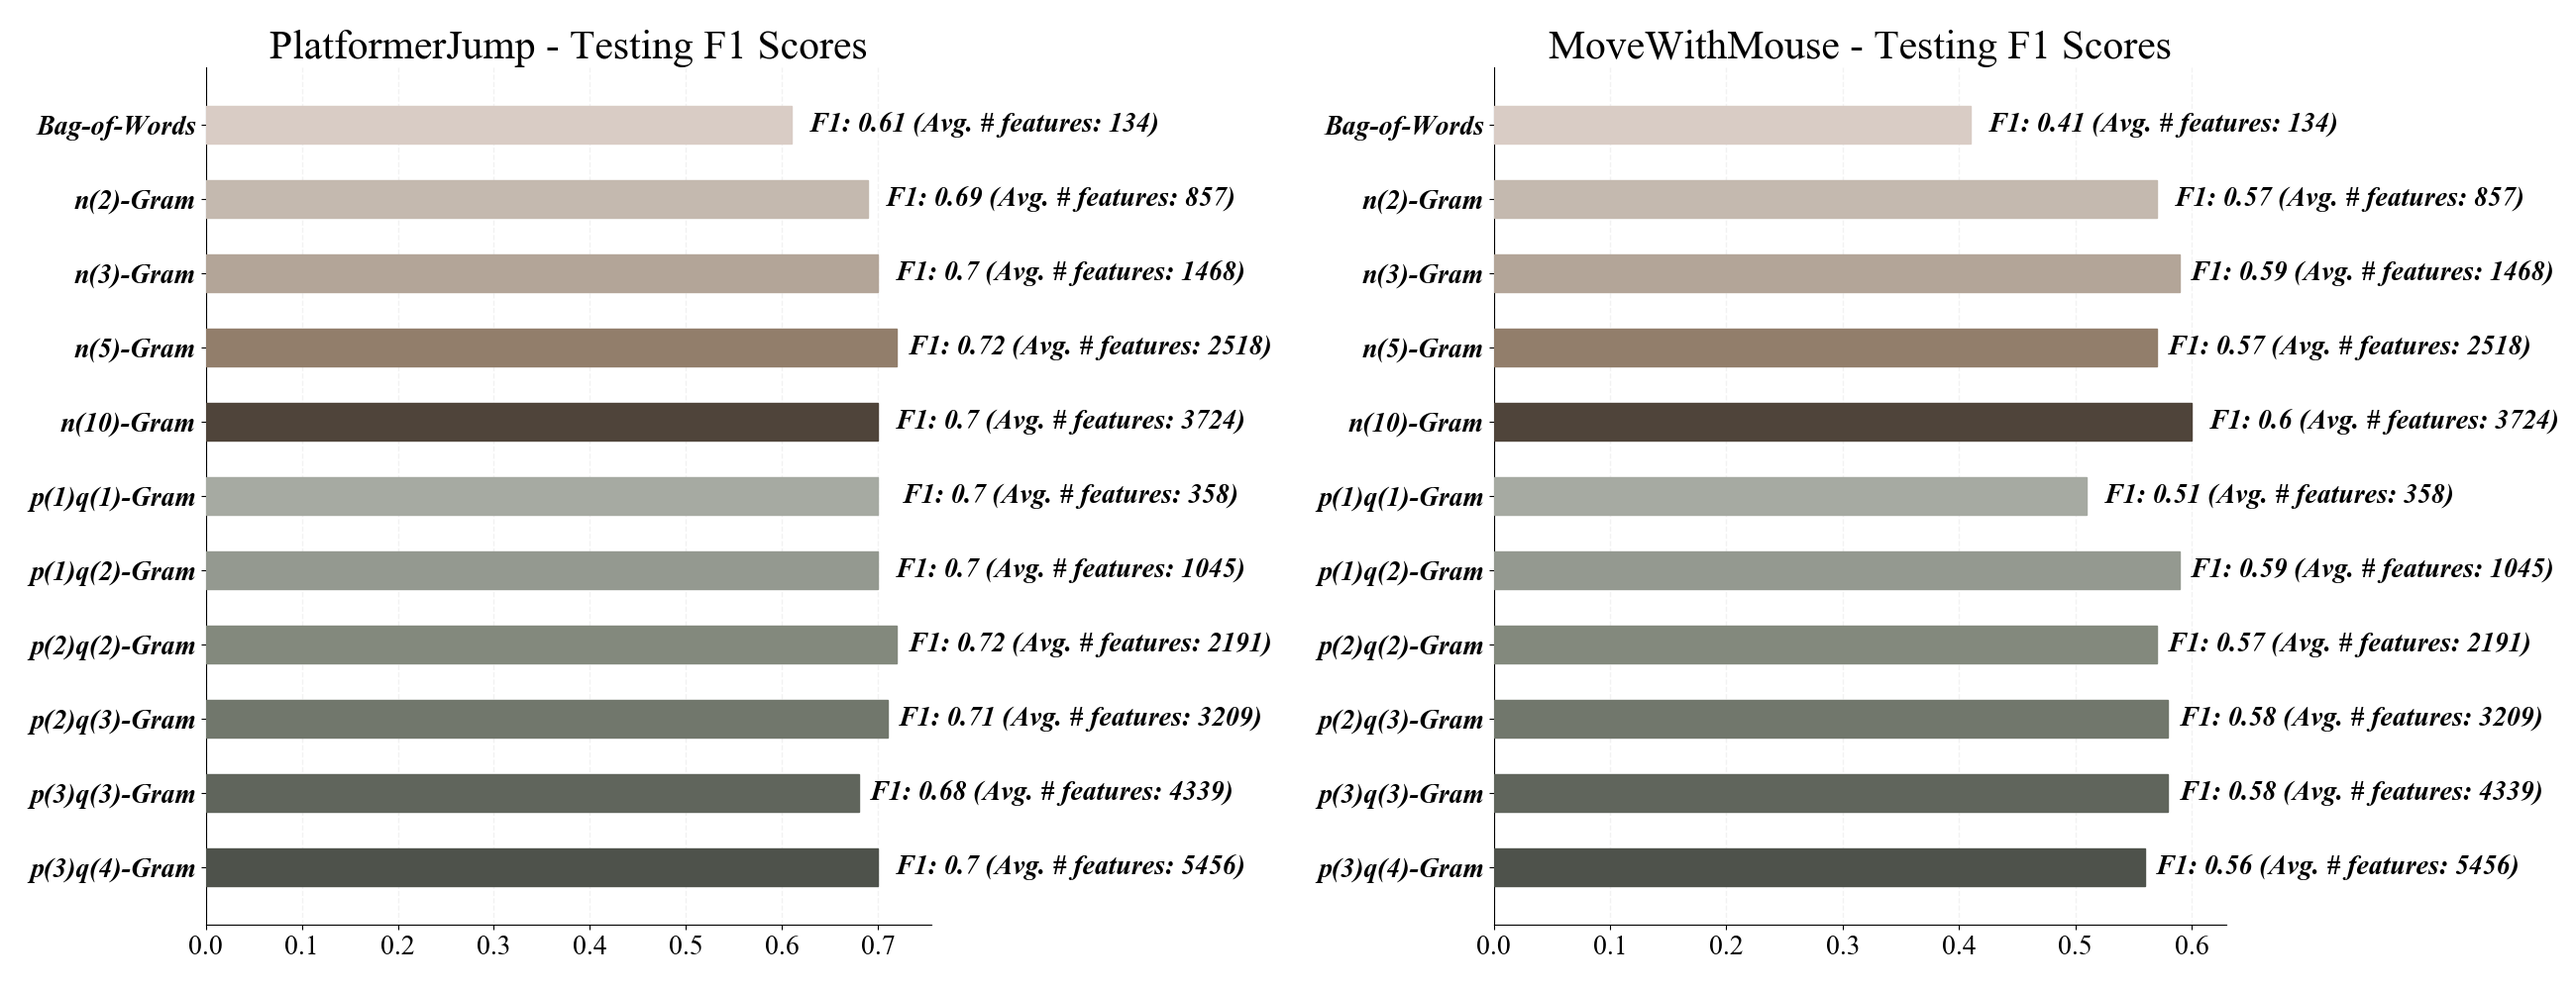
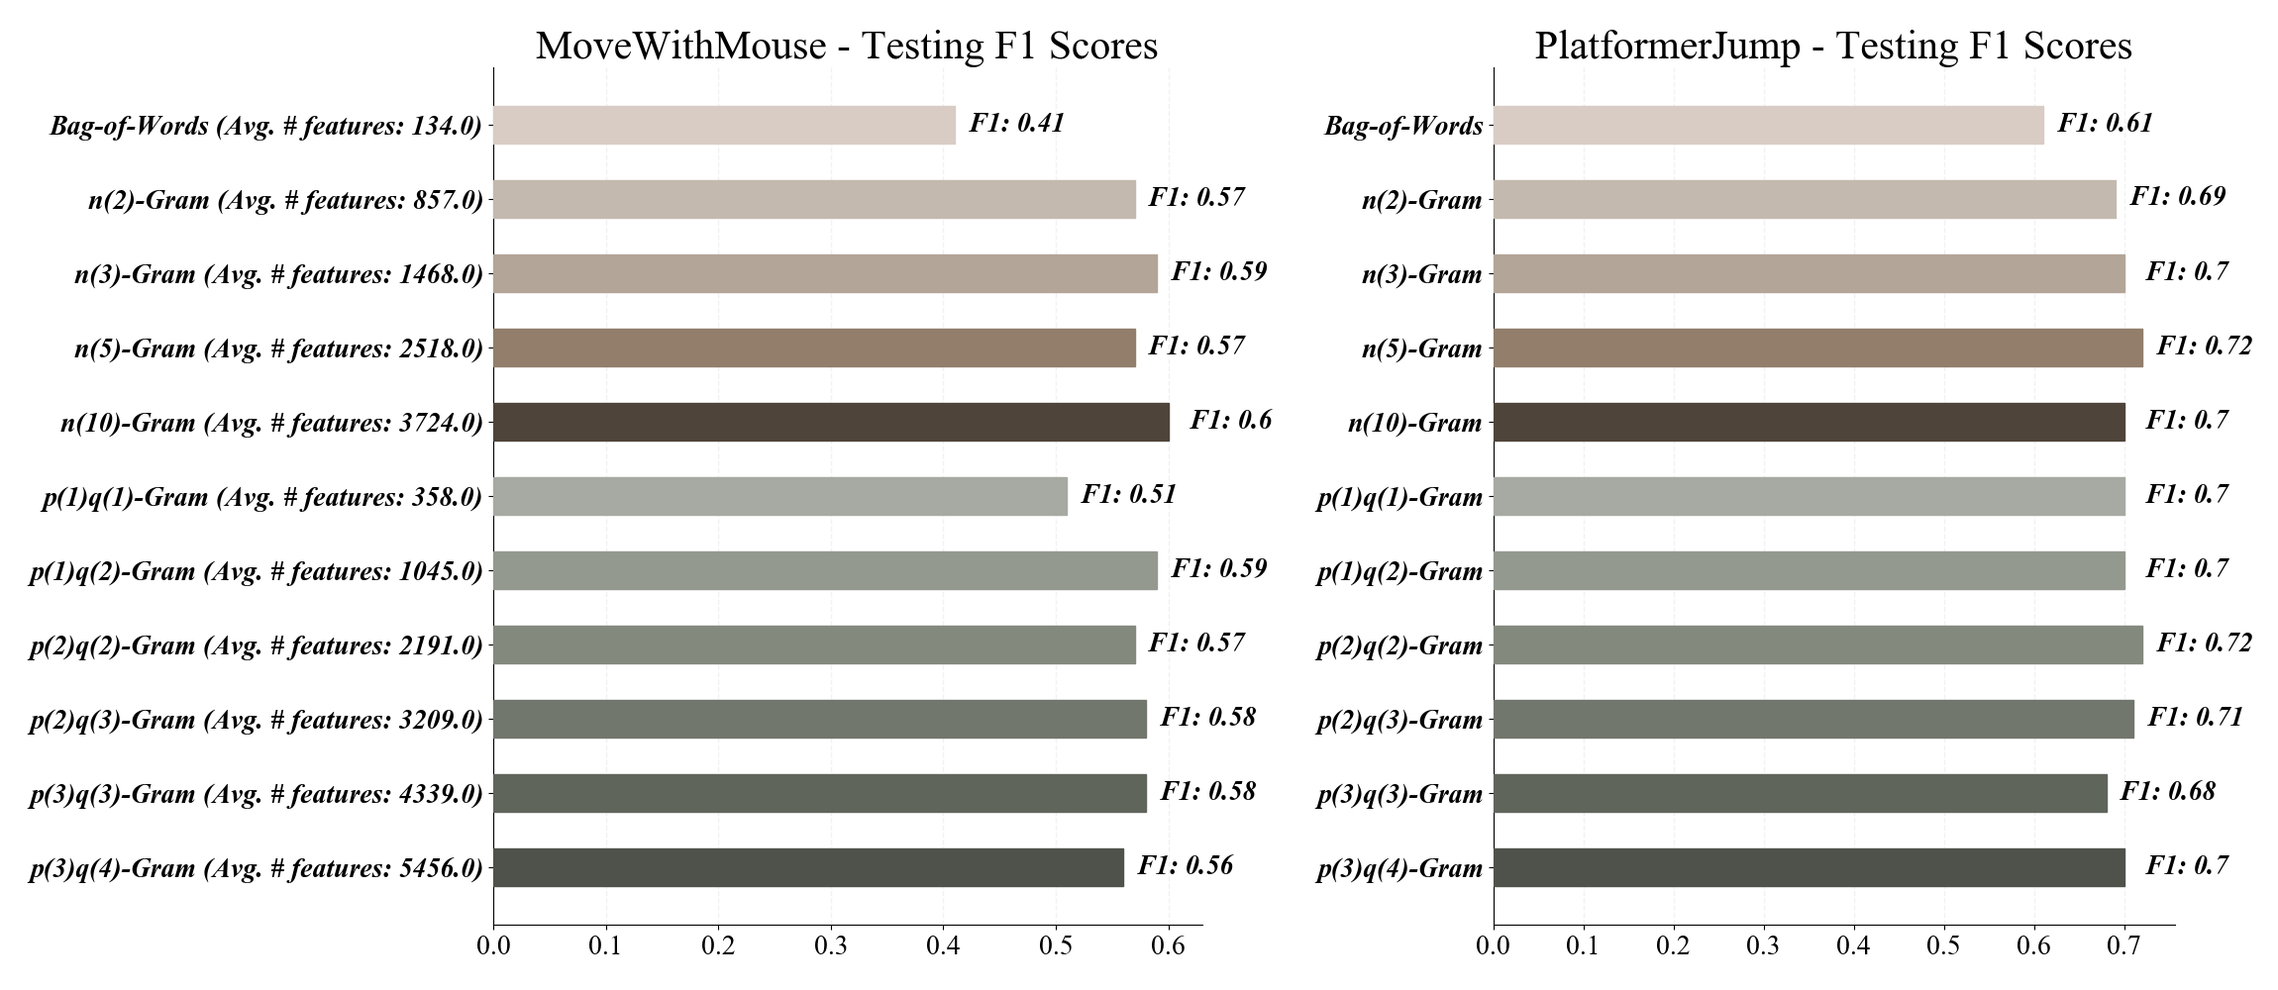
complexity analysis plot completed

diff --git a/SnapHintsOutputAnalysis/dpm_tuning.py b/SnapHintsOutputAnalysis/dpm_tuning.py
@@ -2,7 +2,8 @@ import sys
 
 sys.path.append('.')
 import operator
-from evaluate_snaphints import *
+# from evaluate_snaphints import *
+from all_tuning import *
 
 from classifiers.svm_classifiers.SVM_Linear import SVMLinearModel, SVMLinearP01, SVMLinearP1, SVMLinear10, SVMLinear100
 
@@ -26,125 +27,69 @@ for x in range(413):
     this_list.append(x)
 
 
-def dpm_tuning_with_grid_from_disk(tuning_methd):
-    grid_score_dict = {}
-    best_score_dict = {}
+def dpm_tuning(tuning_methd):
     final_score_dict = {}
     for label in behavior_labels:
-        y_data = game_label_data[label].to_numpy()
 
-        full_y_pred = []
-        full_y_test = []
-
-        for fold in range(5):
-            sub_dict = {}
-            test = fold_seed[fold]
-            val = fold_seed[(fold + 1) % 5]
-            train = []
-            for j in range(2, 5):
-                train += fold_seed[(fold + j) % 5]
-            all_train = train + val
-            sup_pos = label + str(fold) + "Train"
-            sup_neg = label + str(fold) + "TrainNegSupport"
-            best_key = get_best_key_from_disk(method, label, fold)
-
-            for diff_thres in [0, 0.1, 0.2, 0.3, 0.4, 0.5]:
-                f1 = get_f1(y_data, train, val, best_key[0], best_key[1], best_key[2], best_key[3], diff_thres, sup_pos, sup_neg)
-                sub_dict[(best_key[0], best_key[1], best_key[2],  best_key[3], diff_thres)] = f1
-                grid_score_dict[label + str(fold)] = sub_dict
-
-            best_key = get_best_key(sub_dict)
-            best_score = {"best_grid_set": best_key, "val_f1": sub_dict[best_key]}
-            best_score_dict[label + str(fold)] = best_score
-
-            all_sup_pos = label + str(fold) + "TrainVal"
-            all_sup_neg = label + str(fold) + "TrainValNegSupport"
-
-            real_y_pred, y_test = get_y_pred(y_data, all_train, test, best_key[0], best_key[1], best_key[2],
-                                                 best_key[3], best_key[4], all_sup_pos, all_sup_neg)
-
-            full_y_pred.extend(real_y_pred)
-            full_y_test.extend(y_test)
-
-        full_y_pred = np.asarray(full_y_pred)
-        full_y_test = np.asarray(full_y_test)
-        print(full_y_pred, full_y_test)
-        performance = svm_linear.get_matrix(full_y_test, full_y_pred)
-        final_score_dict[label] = {"f1": performance['f1'], "recall": performance['recall'],
-                                   "precision": performance["precision"]}
-
-    return grid_score_dict, best_score_dict, final_score_dict
-
-
-def get_f1(y_data, train, val, c_grid, p_thres, q_thres, n_thres, diff_thres, sup_pos, sup_neg):
-    y_pred, y_val = get_y_pred(y_data, train, val, c_grid, p_thres, q_thres, n_thres, diff_thres,sup_pos, sup_neg)
-    if len(y_pred)==0:
-        return -1
-    performance_temp = c_grid.get_matrix(y_val, y_pred)
-    f1 = performance_temp['f1']
-
-    return f1
-
-
-def get_y_pred(y_data, train, val, c_grid, p_thres, q_thres, n_thres, diff_thres, sup_pos, sup_neg):
-    if n_thres < 100:
-        method = "nGramRules_" + str(n_thres)
-    elif p_thres < 100:
-        method = "pqRules_" + str(p_thres) + "_" + str(q_thres)
-    pq_rules = pd.read_csv(
-        "/Users/wwang33/Documents/SnapHints/data/csc110/fall2019project1/csedm20/CRV_new_413/" + method + ".csv")
-    pq_rule_data = []
-    x_data = []
-    pq_rule_removal_list = []
-    pq_rule_retain_list = []
-    for i in pq_rules.index:
-        support_difference = pq_rules.at[i, sup_pos] - pq_rules.at[i, sup_neg]
-        if support_difference < diff_thres:
-            pq_rule_removal_list.append(pq_rules.at[i, 'ruleID'])
+        if tuning_methd == "pqRules":
+            for p_thres in p_thres_grid:
+                for q_thres in q_thres_grid:
+                    fixed_params = [p_thres, q_thres, 100]
+                    record = get_tuned_prediction(method, label, fixed_params)
+                    final_score_dict[(label, fixed_params[0], fixed_params[1], fixed_params[2])] = record
+        elif tuning_methd == "nGramRules":
+            for n_thres in n_thres_grid:
+                fixed_params = [100, 100, n_thres]
+                record = get_tuned_prediction(method, label, fixed_params)
+                final_score_dict[(label, fixed_params[0], fixed_params[1], fixed_params[2])] = record
         else:
-            pq_rule_retain_list.append(pq_rules.at[i, 'ruleID'])
-
-    pq_rule_data = pq_rules["snapshotVector"].tolist()
-    pq_rule_data = [list(eval(item)) for item in pq_rule_data]
-    pq_rule_data = np.asarray(pq_rule_data)
-    x_data = np.asarray(x_data)
-    pq_rule_data = pq_rule_data[pq_rule_retain_list]
-    if x_data.shape[0] != 0:
-        x_data = np.vstack((pq_rule_data, x_data))
-    else:
-        x_data = pq_rule_data
-    x_data = x_data.transpose()
-    x_train = x_data[train]
-
-    print("x_train shape", x_train.shape)
-
-    if x_train.shape[1] == 0:
-        return [], []
-    y_train = y_data[train]
-    x_val = x_data[val]
-    y_val = y_data[val]
-    y_pred = c_grid.get_y_pred(x_train, x_val, y_train)
-    return y_pred, y_val
+            fixed_params = [100, 100, 100]
+            record = get_tuned_prediction(method, label, fixed_params)
+            final_score_dict[(label, fixed_params[0], fixed_params[1], fixed_params[2])] = record
 
 
 
+    return final_score_dict
 
 
-methods = ["pqRules"]
-# methods = ["nGramRules"]
+def get_tuned_prediction(method, label, fixed_params):
+    y_data = game_label_data[label].to_numpy()
+    full_y_pred = []
+    full_y_test = []
+    total_feature_count = 0
+    for fold in range(5):
+        test = fold_seed[fold]
+        val = fold_seed[(fold + 1) % 5]
+        train = []
+        for j in range(2, 5):
+            train += fold_seed[(fold + j) % 5]
+        best_c = get_best_c_from_disk(method, label, fold, fixed_params[0], fixed_params[1], fixed_params[2])
+        all_train = train + val
+        real_y_pred, y_test, feature_count = get_y_pred(y_data, all_train, test, best_c, fixed_params[0],
+                                                        fixed_params[1], fixed_params[2])
+        full_y_pred.extend(real_y_pred)
+        full_y_test.extend(y_test)
+        total_feature_count += feature_count
+
+    avg_feature_count = total_feature_count/5.0
+    full_y_pred = np.asarray(full_y_pred)
+    full_y_test = np.asarray(full_y_test)
+    performance = svm_linear.get_matrix(full_y_test, full_y_pred)
+    record = {"f1": performance['f1'], "recall": performance['recall'],
+                                               "precision": performance["precision"],
+                                               "avg_feature_count": avg_feature_count}
+    return record
+
+
+
+
+
+# methods = ["pqRules", "nGramRules"]
+methods = ["OneHotRules"]
+# methods = ["OneHotRules"]
 for method in methods:
-    grid_score_dict, best_score_dict, final_score_dict = dpm_tuning_with_grid_from_disk(method)
-
-    grid_score_df = pd.DataFrame(grid_score_dict)
-    best_score_dict = pd.DataFrame(best_score_dict)
-
-    save_obj(grid_score_df, "grid_score_dict", "dpm_tuning", method)
-    save_obj(best_score_dict, "best_score_dict", "dpm_tuning", method)
-    try:
-        final_score_dict = pd.Series(final_score_dict)
-    except:
-        pass
-    save_obj(final_score_dict, "final_score_dict", "dpm_tuning", method)
-
-
-
+    rule_data = pd.read_csv(
+        "/Users/wwang33/Documents/SnapHints/data/csc110/fall2019project1/csedm20/CRV_new_413/" + method + ".csv")
+    final_score_dict = dpm_tuning(method)
+    final_score_dict = pd.DataFrame(final_score_dict)
+    save_obj(final_score_dict, "final_score_dict", "all_tuning", method)

diff --git a/SnapHintsOutputAnalysis/plot_threshold_cv.py b/SnapHintsOutputAnalysis/plot_threshold_cv.py
@@ -8,7 +8,7 @@ import matplotlib.pyplot as plt
 plt.rcParams["font.family"] = "Times New Roman"
 # plt.rcParams["font.style"] = "italic"
 plt.rcParams["font.size"] = 20
-plt.figure(figsize=(13, 10))
+plt.figure(figsize=(10, 10))
 import matplotlib.colors as mc
 import colorsys
 from datetime import datetime
@@ -86,6 +86,8 @@ def get_bar_data(method, label):
     else:
         data = threshold_cv_grid_score[(label, 100, 100, 100)]
     print(data)
+    # p = data["avg_feature_count"]
+    # label_dict[method] += " (Avg. # features: " + str(p) + ")"
     return data
 
 
@@ -117,9 +119,9 @@ def grouped_bar_chart():
             rect = rects[j]
             height = rect.get_width()
             # print("height: ", height)
-            ax.annotate("F1: " + '{}'.format(height) + " (Avg. # features: " + str(p) + ")",
+            ax.annotate("F1: " + '{}'.format(height) ,
                         xy=(height, rect.get_y() + rect.get_height() / 2),
-                        xytext=(140, -9),  # 3 points vertical offset
+                        xytext=(45, -9),  # 3 points vertical offset
                         textcoords="offset points",
                         ha='center', va='bottom', fontsize=20, style = "italic")
 
@@ -128,6 +130,7 @@ def grouped_bar_chart():
         autolabel(bar_plots[i], r, p)
     # plt.ylabel('Game Behaviors')
     plt.yticks(list(range(len(bars))), label_dict.values(), style = "italic")
+    plt.yticks(list(range(len(bars))))
     # plt.yticks([r + barWidth for r in range(len(bars[0]))],  ([behavior_dict[i] for i in behavior_labels_to_show]))
     ax.spines["top"].set_visible(False)
     ax.spines["right"].set_visible(False)
@@ -145,3 +148,4 @@ def grouped_bar_chart():
 
 # snaphints_crossvalidation()
 grouped_bar_chart()
+
